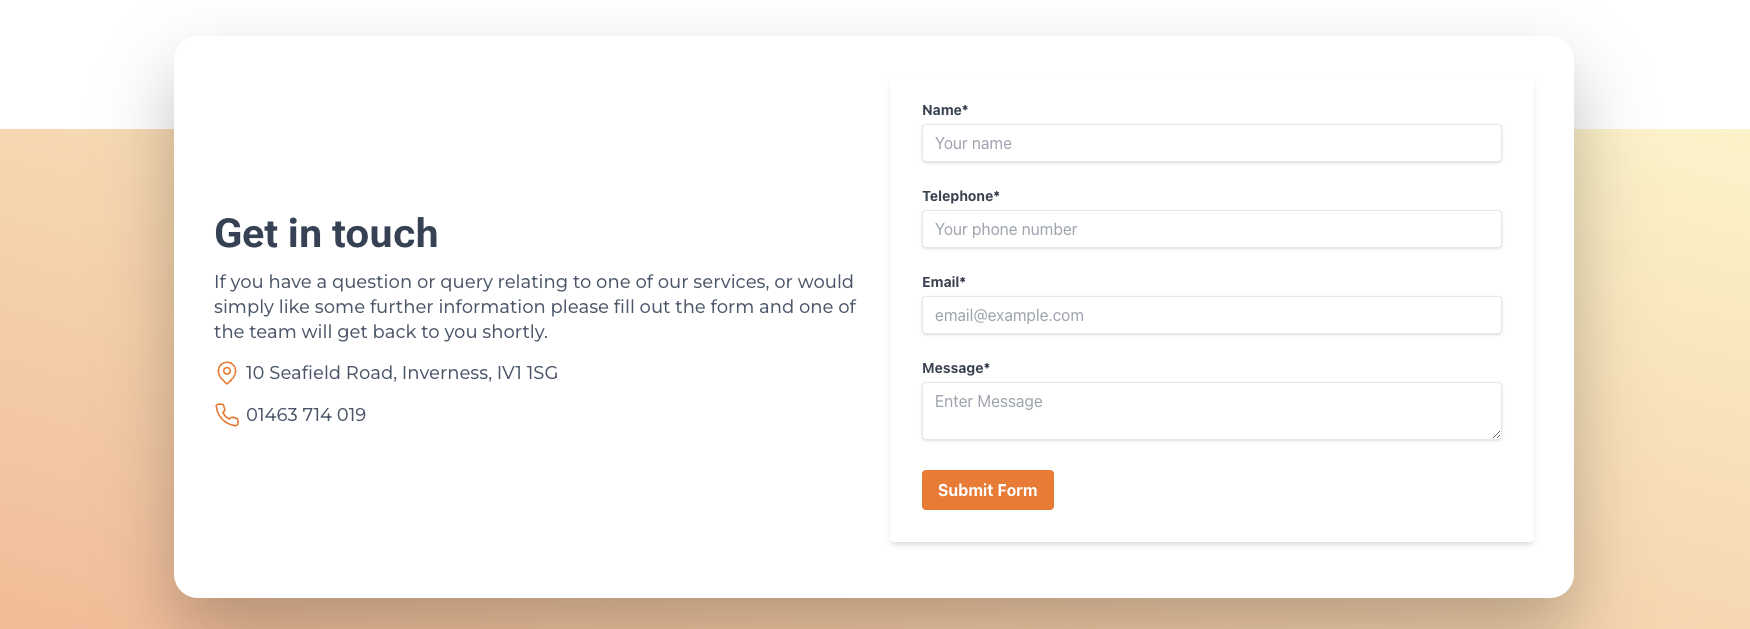
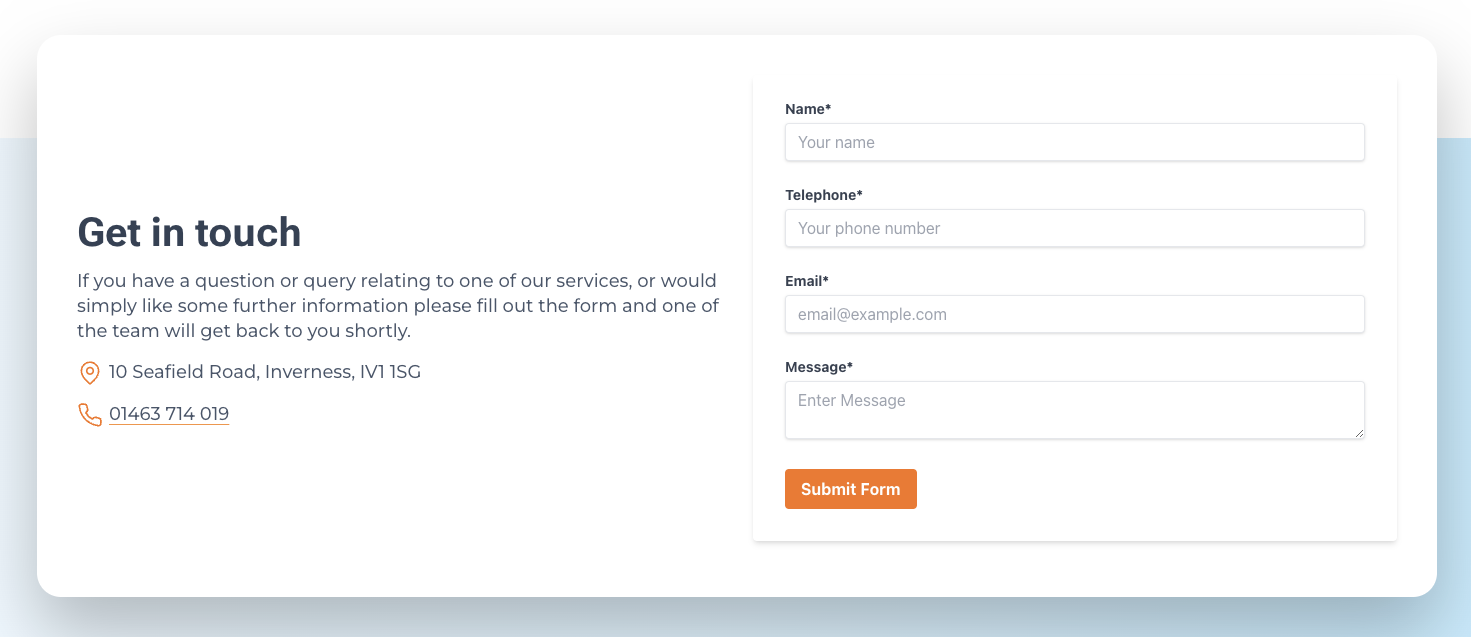
Form gradient

diff --git a/slices/FormSection/index.tsx b/slices/FormSection/index.tsx
@@ -35,7 +35,7 @@ const FormSection = ({ slice }: FormSectionProps): JSX.Element => {
           <ContactForm/>
         </div>
       </div>
-      <div className="absolute bg-gradient-to-tr from-orange-500 to-amber-200 -z-10 opacity-50 inset-x-0 bottom-0 h-4/5"></div>
+      <div className="absolute bg-gradient-to-r from-sky-100 via-sky-200 to-sky-300 -z-10 opacity-50 inset-x-0 bottom-0 h-4/5"></div>
     </section>
   );
 };
